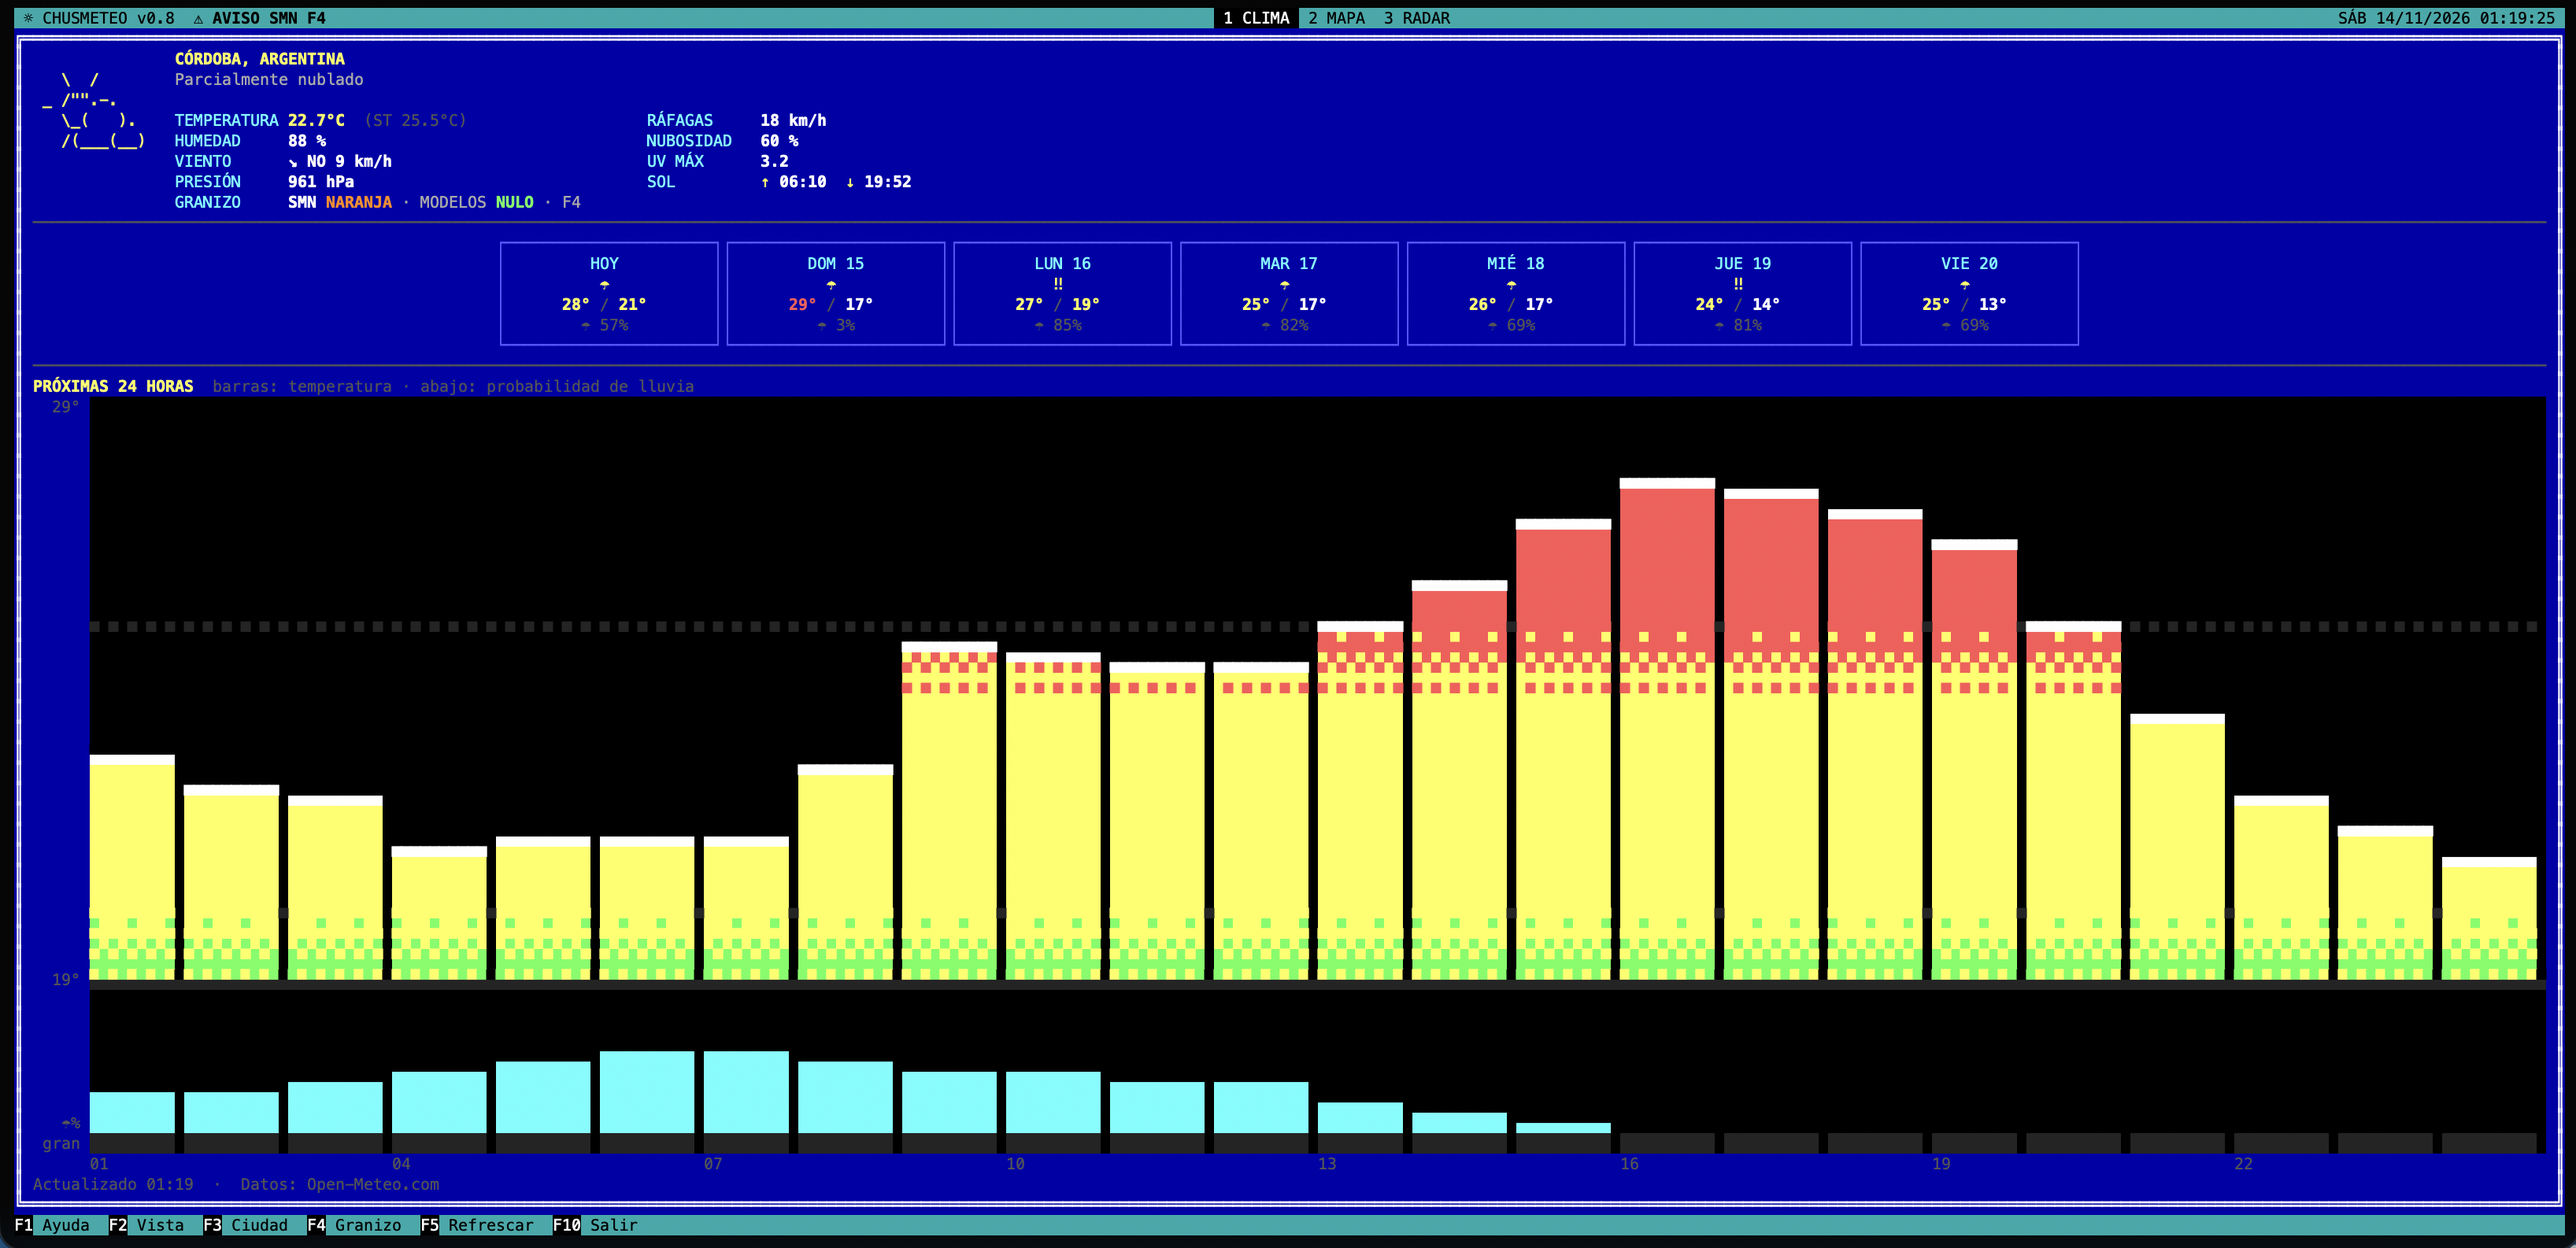
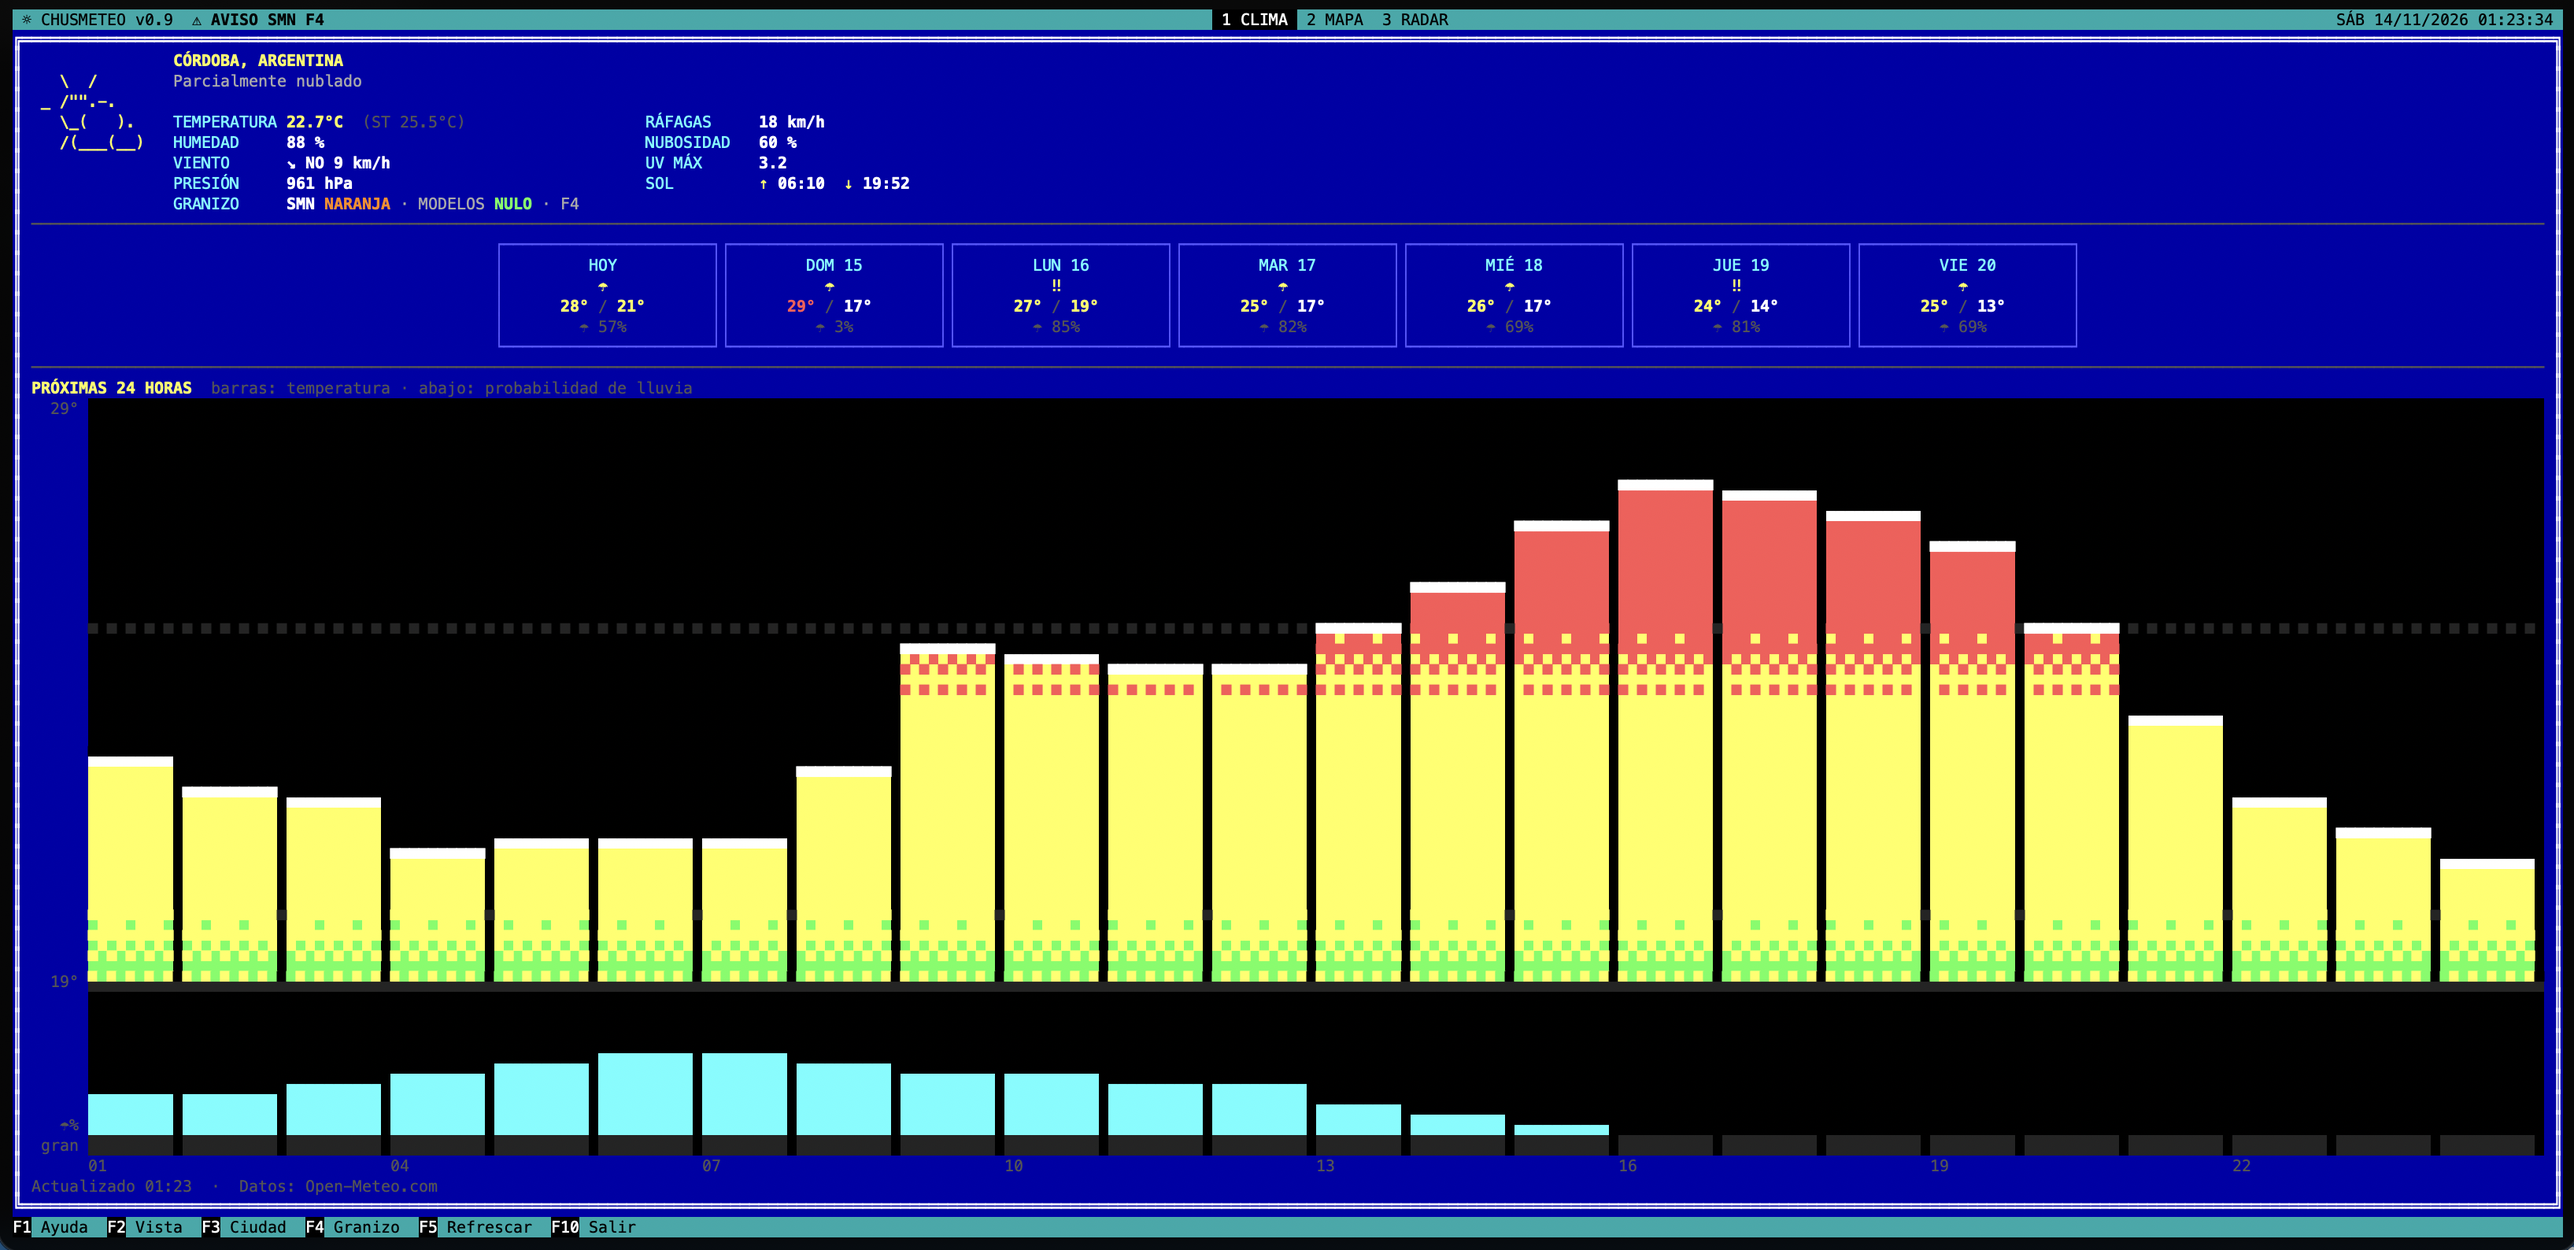
docs: new screenshots (weather, radar, alerts, report form); small popup fixes
- README: refreshed weather capture and added radar, alerts and report form
- alerts popup: no dangling separator when an alert has no area description
- METAR: shorter station name so the present-weather code is not cut off
- report form: shorter key help so it fits the dialog

diff --git a/internal/ui/report.go b/internal/ui/report.go
@@ -193,7 +193,7 @@ func (m Model) reportBox() string {
 		// Los campos sin foco muestran sólo lo elegido: el diálogo queda corto.
 	}
 	body = append(body, pad(""),
-		pad(formDim.Render(truncate("↑↓ o número: opción · ←→ Tab: grupo · Enter anota · Esc cancela", in))),
+		pad(formDim.Render(truncate("↑↓ opción · ←→ grupo · Enter anota · Esc cancela", in))),
 		pad(""))
 
 	title := " ¿QUÉ PASÓ EN TU ZONA? "

diff --git a/internal/ui/alerts.go b/internal/ui/alerts.go
@@ -408,7 +408,8 @@ func (m Model) popupLines(w int) []string {
 		if !a.Expires.IsZero() {
 			until += "hasta " + untilLabel(a.Expires.Local(), m.now) + " · "
 		}
-		lines = append(lines, dim("  "+until+a.AreaDesc))
+		// Las alertas por zona vienen sin descripción del área: sin el " · " colgando.
+		lines = append(lines, dim("  "+strings.TrimSuffix(until+a.AreaDesc, " · ")))
 	}
 	hailAll := 0
 	for _, a := range all {

diff --git a/internal/api/metar.go b/internal/api/metar.go
@@ -67,6 +67,7 @@ func GetStations(ctx context.Context, loc Location, radiusDeg float64) ([]Statio
 		s := by[r.ICAO]
 		if s == nil {
 			name, _, _ := strings.Cut(r.Name, ",")
+			name, _, _ = strings.Cut(name, "/") // "Cordoba/Taravella Intl" -> "Cordoba": deja lugar para el tiempo presente
 			s = &Station{ICAO: r.ICAO, Name: name, DistKm: haversineKm(loc.Latitude, loc.Longitude, r.Lat, r.Lon)}
 			by[r.ICAO] = s
 		}

diff --git a/README.md b/README.md
@@ -20,7 +20,13 @@ Hobby + excusa para aprender Go.
 > no API keys are needed. The interface and the rest of this README are in Spanish.
 > Run it with `go run ./cmd/chusmeteo -city "Córdoba"`.
 
-<img src="docs/img/mapa.png" alt="Vista de mapa: Argentina coloreada por temperatura, con ciudades y viento" width="520">
+| Mapa de temperaturas | Radar (RMA1 Córdoba, dBZ reales) |
+|---|---|
+| <img src="docs/img/mapa.png" alt="Vista de mapa: Argentina coloreada por temperatura, con ciudades y viento" width="400"> | <img src="docs/img/radar.png" alt="Vista de radar: zoom regional al radar de Córdoba con niveles en dBZ y resumen de celdas" width="440"> |
+
+| Avisos y granizo (F4) | ¿Qué pasó en tu zona? (F6) |
+|---|---|
+| <img src="docs/img/avisos.png" alt="Popup de avisos del SMN, observaciones METAR, celdas del radar y riesgo de los modelos" width="440"> | <img src="docs/img/feedback.png" alt="Formulario para anotar lluvia, granizo, viento y hora en el registro de aciertos" width="400"> |
 
 Todo es *responsive*: el panel ocupa la terminal entera y cada vista usa el
 espacio que tenga. Cuanto más grande la ventana, más detalle en pixel art.
